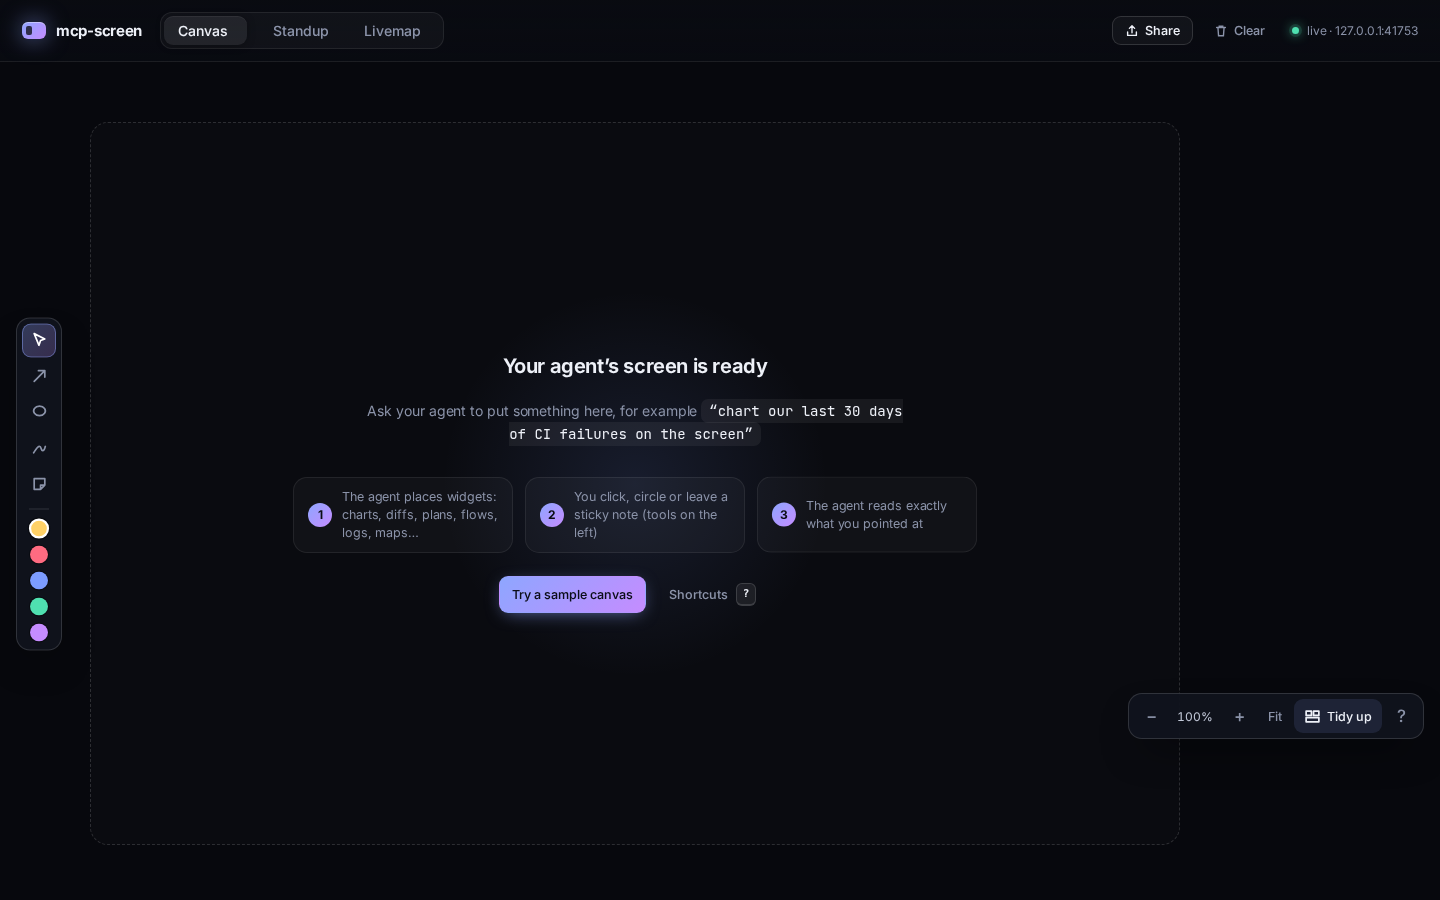
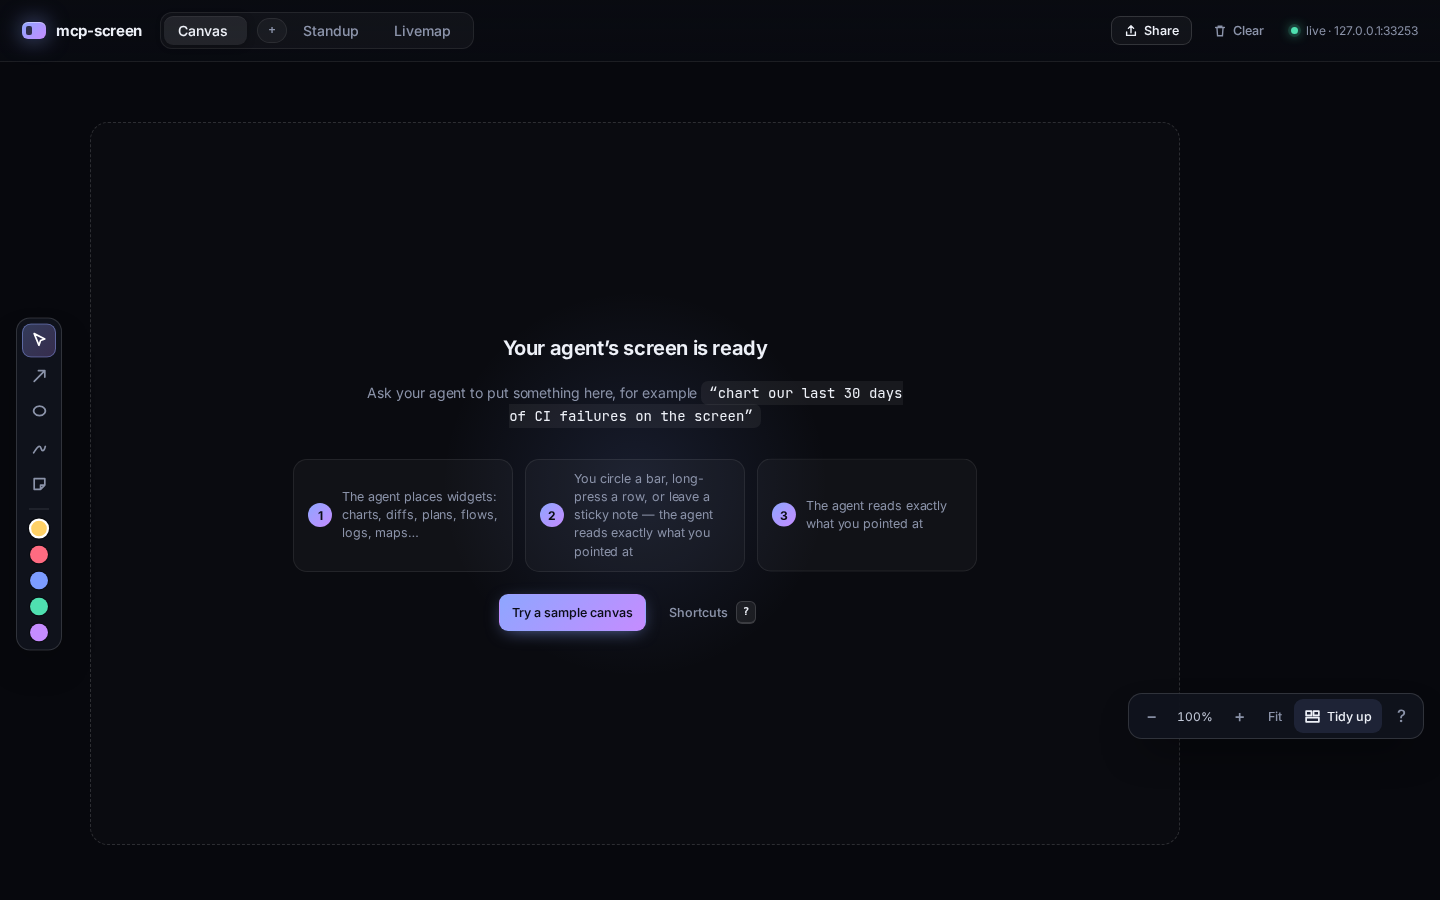
Round 8: inline editor for tap-to-note, SECURITY/empty-state polish for hooks and named canvases

diff --git a/public/app.js b/public/app.js
@@ -337,7 +337,7 @@
         h('p', { class: 'lead' }, 'Ask your agent to put something here, for example ', h('code', {}, '“chart our last 30 days of CI failures on the screen”')),
         h('ol', { class: 'steps' },
           h('li', {}, h('b', {}, '1'), h('span', {}, 'The agent places widgets: charts, diffs, plans, flows, logs, maps…')),
-          h('li', {}, h('b', {}, '2'), h('span', {}, 'You click, circle or leave a sticky note (tools on the left)')),
+          h('li', {}, h('b', {}, '2'), h('span', {}, 'You circle a bar, long-press a row, or leave a sticky note — the agent reads exactly what you pointed at')),
           h('li', {}, h('b', {}, '3'), h('span', {}, 'The agent reads exactly what you pointed at'))),
         h('div', { class: 'empty-actions' },
           h('button', { class: 'btn accent', id: 'sample-btn', title: 'Places a few example widgets so you can try the canvas. No agent involved; Clear removes them.', onclick: () => loadSample() }, 'Try a sample canvas'),
@@ -729,17 +729,7 @@
     try { dataPoints = [JSON.parse(el.dataset.pt)]; } catch { return; }
     const r = el.getBoundingClientRect();
     const [wx, wy] = canvas.toWorld(r.left + r.width / 2, r.top + r.height / 2);
-    const q = prompt('Ask the agent about this:', '');
-    if (q === null) return;
-    const text = (q || '').trim() || 'what is this?';
-    api('POST', '/api/annotations', {
-      kind: 'note',
-      points: [[Math.round(wx - 10), Math.round(wy - 10)]],
-      text,
-      widgetId: wid,
-      dataPoints,
-      color: '#ffd166',
-    }).then(() => toast('Note left for the agent · it will see this on the next turn', null, 3500));
+    canvas.quickAsk(wx, wy, { widgetId: wid, dataPoints });
   }
   grid.addEventListener('pointerdown', (e) => {
     const el = e.target.closest && e.target.closest('[data-pt]');
@@ -859,7 +849,7 @@
       { id: 'sample-chart', kind: 'chart', title: 'Sample · CI failures, 14 days', w: 2, h: 2, data: { type: 'bar', labels: days, values: [3, 5, 2, 8, 4, 1, 0, 6, 14, 3, 2, 7, 4, 2] } },
       { id: 'sample-plan', kind: 'checklist', title: 'Sample · plan', w: 1, h: 2, data: { items: [{ id: 'a', label: 'Reproduce the flake', status: 'done' }, { id: 'b', label: 'Find the race', status: 'doing' }, { id: 'c', label: 'Fix + soak test', status: 'todo' }] } },
       { id: 'sample-flow', kind: 'diagram', title: 'Sample · flow', w: 1, h: 2, data: { mermaid: 'flowchart TD\n a[Request] --> b{Cached?}\n b -->|yes| c([Serve])\n b -->|no| d[Fetch]\n d --> c' } },
-      { id: 'sample-notes', kind: 'markdown', title: 'Try this', w: 2, h: 1, data: { markdown: 'Press **O** and circle the tallest bar, then type *why?* · drag cards by their title · **F** fits everything · this is sample data, **Clear** removes it' } },
+      { id: 'sample-notes', kind: 'markdown', title: 'Try this', w: 2, h: 1, data: { markdown: 'Press **O** and circle the tallest bar, then type *why?* · on a phone, **long-press** a bar or row · drag cards by their title · **F** fits everything · **Clear** removes this sample' } },
     ];
     for (const w of samples) await api('POST', '/api/widgets', w);
     if (canvas.columnsForView() < 4) await canvas.tidy();

diff --git a/public/canvas.js b/public/canvas.js
@@ -463,14 +463,24 @@
     }
     const scheduleFollow = () => { if (!followRaf) followRaf = requestAnimationFrame(follow); };
     grid.addEventListener('scroll', scheduleFollow, { capture: true, passive: true });
+    let pendingMeta = null; // optional { widgetId, dataPoints } from quickAsk (tap / long-press)
     function createAnnotation(kind, pts, text) {
-      const { widgetId, dataPoints, scroll } = hitTest(kind, pts);
+      const hit = hitTest(kind, pts);
+      const widgetId = (pendingMeta && pendingMeta.widgetId) || hit.widgetId;
+      const dataPoints = (pendingMeta && pendingMeta.dataPoints) || hit.dataPoints;
+      const scroll = hit.scroll;
+      pendingMeta = null;
       const body = { kind, points: pts.map(([x, y]) => [Math.round(x), Math.round(y)]), color };
       if (text && text.trim()) body.text = text.trim();
       if (widgetId) body.widgetId = widgetId;
       if (dataPoints && dataPoints.length) body.dataPoints = dataPoints;
       if (scroll) body.scroll = scroll;
       return api('POST', '/api/annotations', body);
+    }
+    /** Touch / Alt+click: open the sticky-note editor already aimed at a data point. */
+    function quickAsk(wx, wy, meta) {
+      pendingMeta = meta || null;
+      editNote({ points: [[Math.round(wx - 10), Math.round(wy - 10)]], color, isNew: true });
     }
     function flashTarget(a) {
       if (!a.target) return;
@@ -560,6 +570,6 @@
 
     window.addEventListener('resize', () => schedule());
     apply();
-    return { position, renderAnnotations, fit, drawMinimap, view, setTool, toWorld, bounds, cull: schedule, panBy, zoomAt, tidy, columnsForView, focusOn };
+    return { position, renderAnnotations, fit, drawMinimap, view, setTool, toWorld, bounds, cull: schedule, panBy, zoomAt, tidy, columnsForView, focusOn, quickAsk };
   };
 })(typeof window !== 'undefined' ? window : globalThis);
